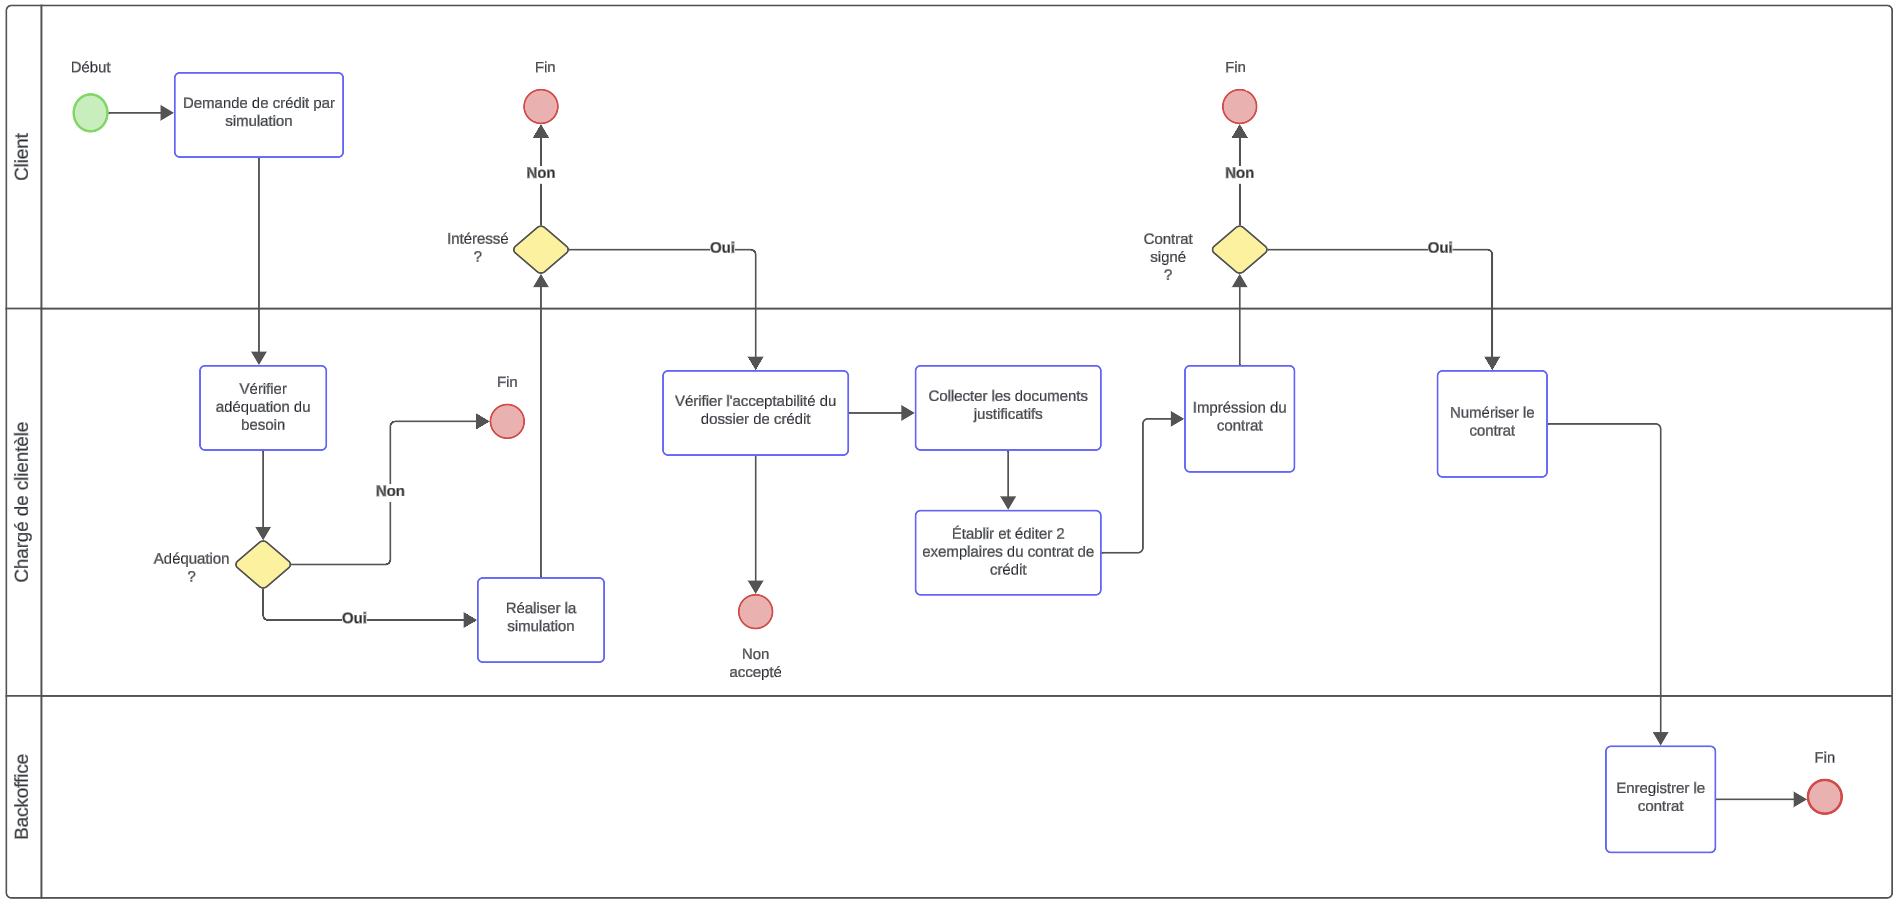
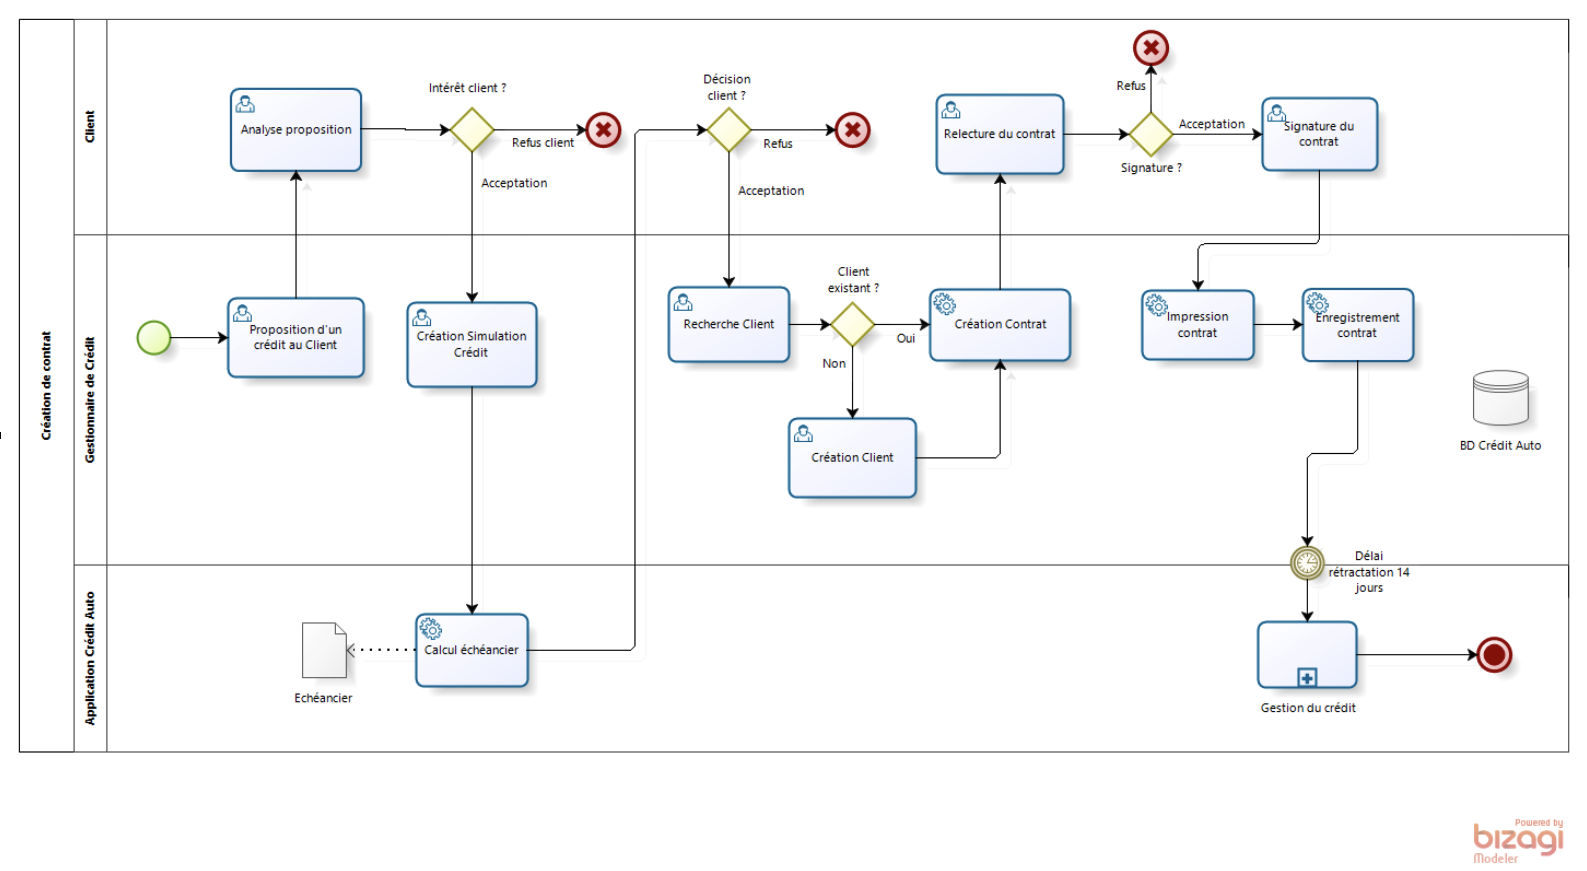
ortho

diff --git a/index.html b/index.html
@@ -650,20 +650,21 @@
 
                             <!--------- DEBUT BPMN TEXTE V1------------------------------------------------------------------>
 
-                            <img class="board_img board_img--item" src="assets/img/board_img--bpmnV1.png" alt="">
+                            <img class="board_img board_img--item margin_bottom_0"
+                                src="assets/img/board_img--bpmnV1.png" alt="">
 
-                            <div class="board_zero--chapitreSection">
+                            <div class="board_zero--chapitreSection margin_top_0">
                                 <p>Il y a 3 acteurs :</p>
                                 <ul class="board_sousInfos">
-                                    <li class="padding_leftCourt">Le client</li>
-                                    <li class="padding_leftCourt">Le chargé de clientèle
+                                    <li class="padding_leftCourt">Le Client</li>
+                                    <li class="padding_leftCourt">Le Gestionnaire de client
                                     </li>
-                                    <li class="padding_leftCourt">Le Backoffice</li>
+                                    <li class="padding_leftCourt">L'Application Crédit Auto</li>
                                 </ul>
                             </div>
                             <br>
 
-                            <div class="board_zero--chapitreSection">
+                            <!-- <div class="board_zero--chapitreSection">
                                 <p>Les étapes du processus :</p>
                                 <ul class="board_sousInfos liste_bpmn">
 
@@ -722,7 +723,7 @@
                                         backoffice et le processus prend
                                         fin.</li>
                                 </ul>
-                            </div>
+                            </div> -->
 
 
 
